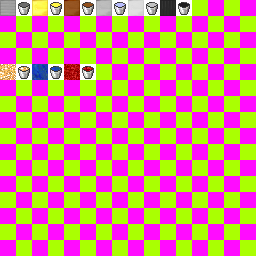
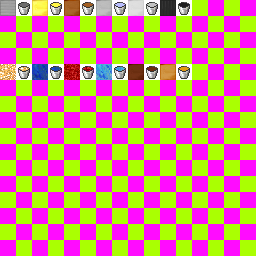
Updated recent changes

Changed region(s): [[0.375, 0.25, 0.75, 0.3125]]

diff --git a/DEFAULT_SETTINGS.java b/DEFAULT_SETTINGS.java
@@ -59,6 +59,7 @@ public class DEFAULT_SETTINGS {
 	public static int blockCrafting = 505;
 	
 	public static int[] craftingBlackList = {Item.goldNugget.itemID, Block.blockGold.blockID, Block.blockSteel.blockID};
+	public static boolean tweakRp2Alloy = true;
 	
 	//settings about ores and outputs and such
 	private static int copperIngotOutput = 0;
@@ -84,9 +85,13 @@ public class DEFAULT_SETTINGS {
 		liquidNames.put(3, new Metal("Tin", "ingotTin", LiquidContainerRegistry.BUCKET_VOLUME/8));
 		liquidNames.put(4, new Metal("Silver", "ingotSilver", LiquidContainerRegistry.BUCKET_VOLUME/8));
 		liquidNames.put(5, new Metal("Lead", "ingotLead", LiquidContainerRegistry.BUCKET_VOLUME/8));
+		
 		liquidNames.put(32, new Metal("Glowstone", new ItemStack(Item.lightStoneDust), LiquidContainerRegistry.BUCKET_VOLUME/40));
 		liquidNames.put(33, new Metal("Lapis Lazuli", new ItemStack(Item.dyePowder, 1, 4), LiquidContainerRegistry.BUCKET_VOLUME/40));
 		liquidNames.put(34, new Metal("Redstone", new ItemStack(Item.redstone), LiquidContainerRegistry.BUCKET_VOLUME/40));
+		liquidNames.put(35, new Metal("Nikolite", "dustNikolite", LiquidContainerRegistry.BUCKET_VOLUME/40));
+		liquidNames.put(36, new Metal("Bronze", "ingotBronze", LiquidContainerRegistry.BUCKET_VOLUME/8));
+		liquidNames.put(37, new Metal("Brass", "ingotBrass", LiquidContainerRegistry.BUCKET_VOLUME/8));
 	}
 	
 	public static void readConfig(File configurationFile) {
@@ -108,6 +113,7 @@ public class DEFAULT_SETTINGS {
 			
 			config.addCustomCategoryComment("Tweaks", "Used to fine tune the behavior of Liquid Metals");
 			craftingBlackList = config.get("Tweaks", "Liquid Crafting blacklist", craftingBlackList, "Enter the ids of items you dont want my crafing table to make.").getIntList();
+			tweakRp2Alloy = config.get("Tweaks", "Edit rp2 alloy furnace recipes?", tweakRp2Alloy, "Removes the reclaimation recipies to avoid exploits.").getBoolean(tweakRp2Alloy);
 			
 			config.addCustomCategoryComment("Ingot Former Output", "Dont mess with these values unless you know what your doing.");
 			copperIngotOutput = config.get("Ingot Former Output", "Ingot output copper", copperIngotOutput).getInt();
@@ -169,8 +175,9 @@ public class DEFAULT_SETTINGS {
 		Iterator it = s.iterator();
 		while(it.hasNext()) {
 			Map.Entry m = (Map.Entry)it.next();
-			LiquidDictionary.getOrCreateLiquid("Molten " + m.getValue(), new LiquidStack(LM_Main.molten.itemID, 1, (Integer)m.getKey()));
-			LiquidContainerRegistry.registerLiquid(new LiquidContainerData(LiquidDictionary.getLiquid("Molten " + m.getValue(), LiquidContainerRegistry.BUCKET_VOLUME), new ItemStack(LM_Main.bucketMolten, 1, (Integer)m.getKey()), new ItemStack(Item.bucketEmpty)));
+			Metal temp = (Metal) m.getValue();
+			LiquidDictionary.getOrCreateLiquid("Molten " + temp.getPrefix(), new LiquidStack(LM_Main.molten.itemID, 1, (Integer)m.getKey()));
+			LiquidContainerRegistry.registerLiquid(new LiquidContainerData(LiquidDictionary.getLiquid("Molten " + temp.getPrefix(), LiquidContainerRegistry.BUCKET_VOLUME), new ItemStack(LM_Main.bucketMolten, 1, (Integer)m.getKey()), new ItemStack(Item.bucketEmpty)));
 		}
 	}
 	
@@ -194,11 +201,14 @@ public class DEFAULT_SETTINGS {
 	public static void addIngotFormerRecipes() {
 		IngotFormerRecipeManager.addRecipe(LiquidDictionary.getLiquid("Molten Iron", LiquidContainerRegistry.BUCKET_VOLUME/8), new ItemStack(Item.ingotIron, 1));
 		IngotFormerRecipeManager.addRecipe(LiquidDictionary.getLiquid("Molten Gold", LiquidContainerRegistry.BUCKET_VOLUME/8), new ItemStack(Item.ingotGold, 1));
+		IngotFormerRecipeManager.addRecipe(LiquidDictionary.getLiquid("Molten Brass", LiquidContainerRegistry.BUCKET_VOLUME/8), "ingotBrass");
+		IngotFormerRecipeManager.addRecipe(LiquidDictionary.getLiquid("Molten Bronze", LiquidContainerRegistry.BUCKET_VOLUME/8), "ingotBronze");
 		
-		//special things
+		//Dust
 		IngotFormerRecipeManager.addRecipe(LiquidDictionary.getLiquid("Molten Glowstone", LiquidContainerRegistry.BUCKET_VOLUME/40), new ItemStack(Item.lightStoneDust, 1));
 		IngotFormerRecipeManager.addRecipe(LiquidDictionary.getLiquid("Molten Lapis Lazuli", LiquidContainerRegistry.BUCKET_VOLUME/40), new ItemStack(Item.dyePowder, 1, 4));
 		IngotFormerRecipeManager.addRecipe(LiquidDictionary.getLiquid("Molten Redstone", LiquidContainerRegistry.BUCKET_VOLUME/40), new ItemStack(Item.redstone, 1));
+		IngotFormerRecipeManager.addRecipe(LiquidDictionary.getLiquid("Molten Nikolite", LiquidContainerRegistry.BUCKET_VOLUME/40), "dustNikolite");
 		
 		if(copperIngotOutput == 0) {
 			IngotFormerRecipeManager.addRecipe(LiquidDictionary.getLiquid("Molten Copper", LiquidContainerRegistry.BUCKET_VOLUME/8), "ingotCopper");
@@ -241,10 +251,15 @@ public class DEFAULT_SETTINGS {
 		ArcFurnaceRecipeManager.addRecipe("ingotTin", LiquidDictionary.getLiquid("Molten Tin", LiquidContainerRegistry.BUCKET_VOLUME/8));
 		ArcFurnaceRecipeManager.addRecipe("ingotSilver", LiquidDictionary.getLiquid("Molten Silver", LiquidContainerRegistry.BUCKET_VOLUME/8));
 		ArcFurnaceRecipeManager.addRecipe("ingotLead", LiquidDictionary.getLiquid("Molten Lead", LiquidContainerRegistry.BUCKET_VOLUME/8));
+		ArcFurnaceRecipeManager.addRecipe("ingotBrass", LiquidDictionary.getLiquid("Molten Brass", LiquidContainerRegistry.BUCKET_VOLUME/8));
+		ArcFurnaceRecipeManager.addRecipe("ingotBronze", LiquidDictionary.getLiquid("Molten Bronze", LiquidContainerRegistry.BUCKET_VOLUME/8));
 		
 		//For liquids that are made from non standard items;
 		ArcFurnaceRecipeManager.addRecipe(new ItemStack(Item.lightStoneDust, 1), LiquidDictionary.getLiquid("Molten Glowstone", LiquidContainerRegistry.BUCKET_VOLUME/40));
-		ArcFurnaceRecipeManager.addRecipe(new ItemStack(Item.dyePowder, 1, 4), LiquidDictionary.getLiquid("Molten Lapis Lazuli", LiquidContainerRegistry.BUCKET_VOLUME/40));	}
+		ArcFurnaceRecipeManager.addRecipe(new ItemStack(Item.dyePowder, 1, 4), LiquidDictionary.getLiquid("Molten Lapis Lazuli", LiquidContainerRegistry.BUCKET_VOLUME/40));
+		ArcFurnaceRecipeManager.addRecipe(new ItemStack(Item.redstone, 1), LiquidDictionary.getLiquid("Molten Redstone", LiquidContainerRegistry.BUCKET_VOLUME/40));
+		ArcFurnaceRecipeManager.addRecipe("dustNikolite", LiquidDictionary.getLiquid("Molten Nikolite", LiquidContainerRegistry.BUCKET_VOLUME/40));
+	}
 
 	public static void setupOreDict() {
 		//register all the dusts.
@@ -292,6 +307,38 @@ public class DEFAULT_SETTINGS {
        
 	}
 
+	public static void editRp2Recipes() {
+		try {
+			Field[] fields = Class.forName("com.eloraam.redpower.core.CraftLib").getDeclaredFields();
+			List tempAlloyRecipes = new ArrayList();
+			
+			for(Field f : fields) {
+				if(f.getName().equals("alloyRecipes")) {
+					f.setAccessible(true);
+					List d = (List) f.get(null); //this is the list of alloyRecipes
+					for(int a = 0; a < d.size(); a++) {
+						List l = (List)d.get(a); //gets the parts of the recipes
+						Object[] ob = l.toArray(); //makes it an object array 0 is object[] of inputs and 1 is output
+						if(!((ItemStack)ob[1]).isItemEqual(new ItemStack(Item.ingotGold, 1))) {
+							if(!((ItemStack)ob[1]).isItemEqual(new ItemStack(Item.ingotIron, 1))) {
+								tempAlloyRecipes.add(l);
+							}
+						}
+					}
+					f.set(null, tempAlloyRecipes);
+					f.setAccessible(false);
+					break;
+				}
+			}
+		} catch (ClassNotFoundException e) {
+			System.out.println("No Redpower2 detected.");
+		} catch (IllegalArgumentException e) {
+			System.out.println("Damn 2.0");
+		} catch (IllegalAccessException e) {
+			System.out.println("Damn 3.0");
+		}
+	}
+	
 	public static void fixLiquids() {
 		Set s = liquidNames.entrySet();
 		Iterator it = s.iterator();

diff --git a/LM_Main.java b/LM_Main.java
@@ -114,12 +114,16 @@ public class LM_Main {
 		
 		DEFAULT_SETTINGS.fixLiquids();
 		
-		//DEFAULT_SETTINGS.editRp2Recipes();
+		if(DEFAULT_SETTINGS.tweakRp2Alloy) {
+			DEFAULT_SETTINGS.editRp2Recipes();
+		}
+		
 		GameRegistry.addRecipe(new ItemStack(blockGrinder1), "#@#", "$%$", "###", '#', Item.ingotIron, '$', Block.pistonBase, '%', Block.blockSteel, '@', BuildCraftTransport.pipePowerWood);
 		GameRegistry.addRecipe(new ItemStack(blockGrinder2), "#@#", "$%$", "###", '#', Item.ingotGold, '$', BuildCraftCore.ironGearItem, '%', blockGrinder1, '@', BuildCraftTransport.pipePowerStone);
 		GameRegistry.addRecipe(new ItemStack(blockGrinder3), "#@#", "$%$", "###", '#', Item.diamond, '$', BuildCraftCore.goldGearItem, '%', blockGrinder2, '@', BuildCraftTransport.pipePowerGold);
 		GameRegistry.addRecipe(new ItemStack(blockIngotFormer), "!@!", "!#!", "!!!", '!', Item.ingotIron, '@', BuildCraftFactory.tankBlock, '#', BuildCraftCore.goldGearItem);
-		GameRegistry.addRecipe(new ItemStack(this.blockFurnace), "#@#", "#%#", "#*#", '#', Item.ingotIron, '@', BuildCraftCore.diamondGearItem, '%', Block.blockSteel, '*', BuildCraftTransport.pipePowerGold);
+		GameRegistry.addRecipe(new ItemStack(blockFurnace), "#@#", "#%#", "#*#", '#', Item.ingotIron, '@', BuildCraftCore.diamondGearItem, '%', Block.blockSteel, '*', BuildCraftTransport.pipePowerGold);
+		GameRegistry.addRecipe(new ItemStack(blockCrafting), "#$#", "#%#", "(@(", '#', Item.ingotGold, '$', Item.diamond, '%', this.blockIngotFormer, '(', Item.ingotIron, '@', BuildCraftTransport.pipePowerGold);
 		
 		GameRegistry.addRecipe(new ItemStack(marker, 2, 0), "!", "@", "#", '!', new ItemStack(Item.dyePowder, 1, 1), '@', Item.ingotGold, '#', Item.paper);
 		GameRegistry.addRecipe(new ItemStack(marker, 2, 1), "!", "@", "#", '!', new ItemStack(Item.dyePowder, 1, 2), '@', Item.ingotGold, '#', Item.paper);

diff --git a/ClientProxy.java b/ClientProxy.java
@@ -2,12 +2,15 @@ package LiquidMetals;
 
 import net.minecraft.client.renderer.RenderEngine;
 import net.minecraftforge.client.MinecraftForgeClient;
+import LiquidMetals.render.TextureBrassFX;
+import LiquidMetals.render.TextureBronzeFX;
 import LiquidMetals.render.TextureCopperFX;
 import LiquidMetals.render.TextureGlowstoneFX;
 import LiquidMetals.render.TextureGoldFX;
 import LiquidMetals.render.TextureIronFX;
 import LiquidMetals.render.TextureLapisLazuliFX;
 import LiquidMetals.render.TextureLeadFX;
+import LiquidMetals.render.TextureNikoliteFX;
 import LiquidMetals.render.TextureRedstoneFX;
 import LiquidMetals.render.TextureSilverFX;
 import LiquidMetals.render.TextureTinFX;
@@ -40,5 +43,9 @@ public class ClientProxy extends CommonProxy {
 		renderEngine.registerTextureFX(new TextureRedstoneFX());
 		renderEngine.registerTextureFX(new TextureGlowstoneFX());
 		renderEngine.registerTextureFX(new TextureLapisLazuliFX());
+		renderEngine.registerTextureFX(new TextureNikoliteFX());
+		renderEngine.registerTextureFX(new TextureBrassFX());
+		renderEngine.registerTextureFX(new TextureBronzeFX());
+		
 	}
 }

diff --git a/render/TextureNikoliteFX.java b/render/TextureNikoliteFX.java
@@ -1,0 +1,11 @@
+package LiquidMetals.render;
+
+import LiquidMetals.DEFAULT_SETTINGS;
+import LiquidMetals.LM_Main;
+
+public class TextureNikoliteFX extends TextureLiquidsFX {
+
+	public TextureNikoliteFX() {
+		super(50, 100, 100, 150, 220, 255, LM_Main.molten.getIconFromDamage(TextureLiquidsFX.liquidIndexOf("Nikolite")), LM_Main.molten.getTextureFile());
+	}
+}

diff --git a/render/TextureBrassFX.java b/render/TextureBrassFX.java
@@ -1,0 +1,11 @@
+package LiquidMetals.render;
+
+import LiquidMetals.DEFAULT_SETTINGS;
+import LiquidMetals.LM_Main;
+
+public class TextureBrassFX extends TextureLiquidsFX {
+
+	public TextureBrassFX() {
+		super(225, 255, 140, 220, 20, 50, LM_Main.molten.getIconFromDamage(TextureLiquidsFX.liquidIndexOf("Brass")), LM_Main.molten.getTextureFile());
+	}
+}

diff --git a/render/TextureBronzeFX.java b/render/TextureBronzeFX.java
@@ -1,0 +1,11 @@
+package LiquidMetals.render;
+
+import LiquidMetals.DEFAULT_SETTINGS;
+import LiquidMetals.LM_Main;
+
+public class TextureBronzeFX extends TextureLiquidsFX {
+
+	public TextureBronzeFX() {
+		super(50, 100, 0, 50, 0, 20, LM_Main.molten.getIconFromDamage(TextureLiquidsFX.liquidIndexOf("Bronze")), LM_Main.molten.getTextureFile());
+	}
+}

diff --git a/IngotFormerRecipe.java b/IngotFormerRecipe.java
@@ -10,7 +10,7 @@ public class IngotFormerRecipe {
 	
 	public IngotFormerRecipe(LiquidStack input, ItemStack output) {
 		this.input = input;
-		this.output = output;
+		this.output = new ItemStack(output.itemID, 1, output.getItemDamage());
 	}
 	
 	public LiquidStack getInput() {

diff --git a/AlloyRecipeManager.java b/AlloyRecipeManager.java
@@ -1,0 +1,5 @@
+package LiquidMetals;
+
+public class AlloyRecipeManager {
+
+}

diff --git a/AlloyRecipe.java b/AlloyRecipe.java
@@ -1,0 +1,5 @@
+package LiquidMetals;
+
+public class AlloyRecipe {
+
+}
